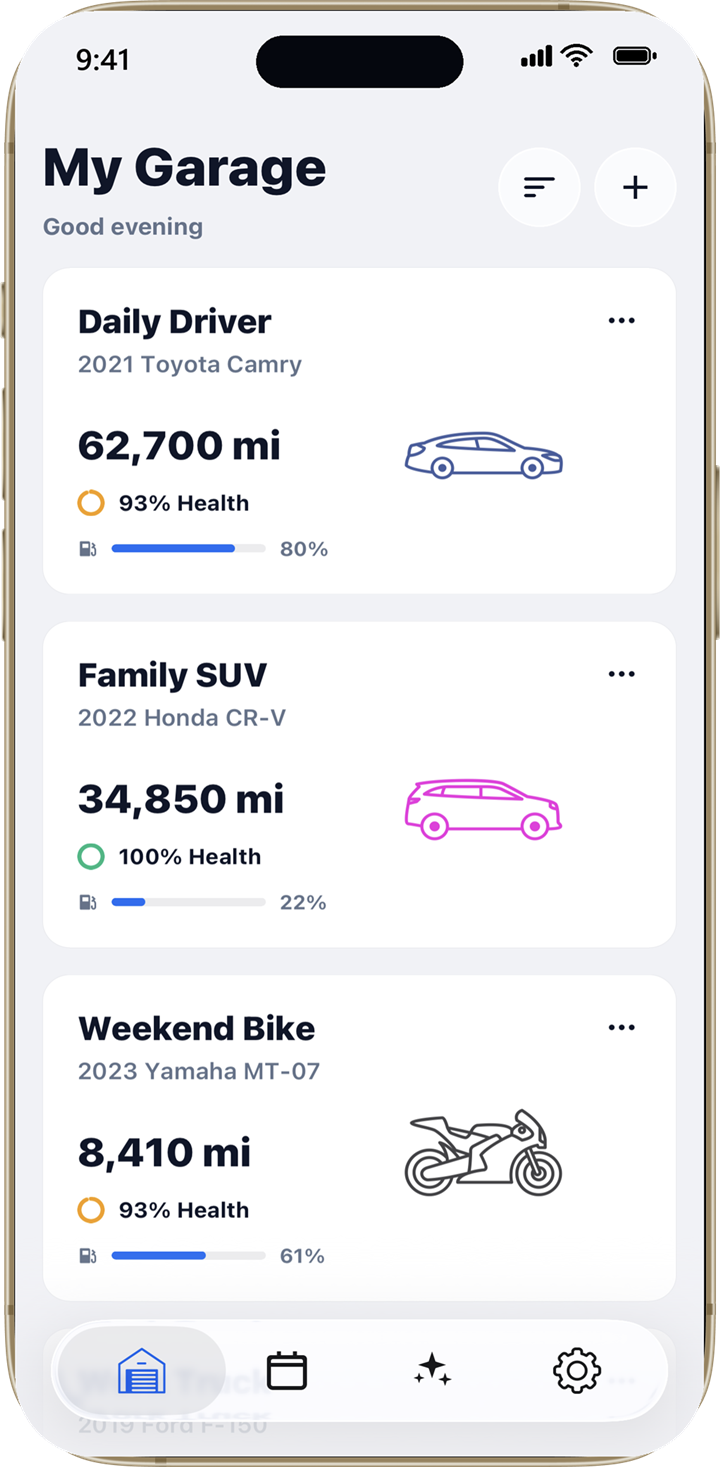
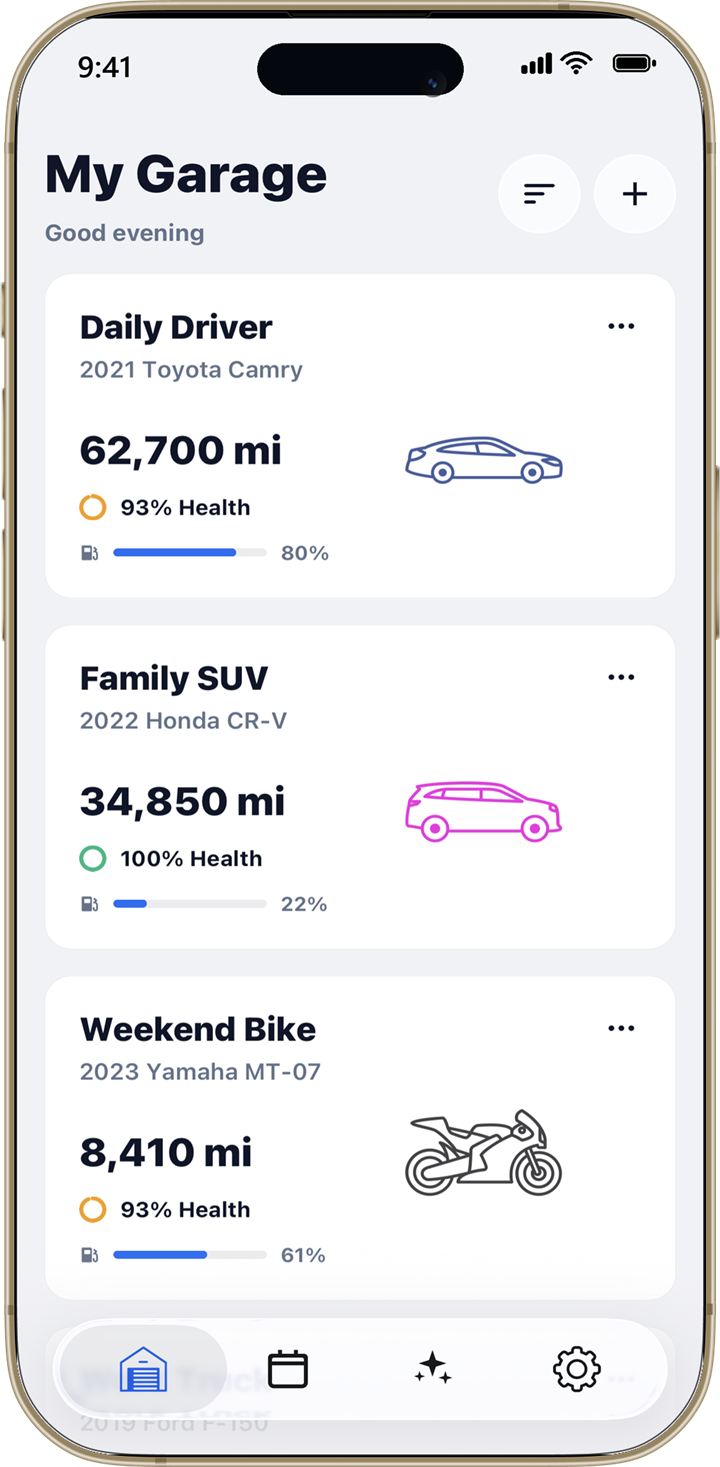
Audit pass: pixel-exact phone mask, real Carson UI, two factual fixes
Hero: the screenshot was clipped to a guessed rounded rect built from the
phone's whole silhouette, so its corners overhung the bezel and the CSS
drop-shadow followed that oversized rectangle - the dark blue box. Now the
frame's own black screen pixels are the mask (antialiased edge included),
so the composite's alpha is the phone silhouette exactly.

Carson section: replaced the hand-written chat card with the real Carson
screen. The mock invented an urgency label (Weeks, not days - the app uses
Can wait / Address this week / Same-day / Stop driving now) and invented
quick-replies; the real chips are Next due task / Log mileage / Log service.

Facts corrected against the codebase: 7 languages was the store-listing
locale count - the app ships English + Espanol (SUPPORTED_LANGUAGES), so the
badge and footer locale bar now say so (Italiano removed: listing locale,
not an app language). 12 body types became 17 (11 car + 6 bike, per
BODY_TYPES + BIKE_BODY_TYPES). Honesty-card copy now states why an estimate
appears (we lack the manufacturer's numbers) rather than implying the maker
never published any.

Verified correct and left alone: 39.99/yr, 3.33/mo equivalent, save 44 pct
(vs 12x 5.99), the 7-day trial, free-tier caps, and both honesty labels -
Manufacturer schedule and General estimate are the app's exact strings.

Strip now shows four unique screens (service history, maintenance, bike
schedule, log service); Carson and the garage already appear elsewhere.

diff --git a/index.html b/index.html
@@ -97,15 +97,9 @@
     .carson .lede { color: rgba(250,250,250,.7); }
     .chips { display: flex; flex-wrap: wrap; gap: 10px; margin-top: 28px; }
     .chip { height: 38px; padding: 0 14px; border-radius: 19px; border: 1px solid rgba(255,255,255,.2); display: inline-flex; align-items: center; font: 600 14px/1 Inter, system-ui; color: #FAFAFA; }
-    .chat { background: #1C1C1E; border: 1px solid #2A2A2E; border-radius: 20px; padding: 26px; }
-    .bubble { margin: 0 0 16px auto; max-width: 70%; background: #146EF5; border-radius: 16px 16px 4px 16px; padding: 10px 14px; width: fit-content; font: 400 15px/23px Inter, system-ui; color: #fff; }
-    .chat-h { font: 800 16px/24px Inter, system-ui; color: #FAFAFA; }
-    .chat-p { font: 400 15px/24px Inter, system-ui; color: #FAFAFA; margin-bottom: 14px; text-wrap: pretty; }
-    .urgency { display: flex; align-items: center; gap: 10px; margin-top: 4px; flex-wrap: wrap; }
-    .u-pill { font: 600 11px/1 Inter, system-ui; letter-spacing: .04em; text-transform: uppercase; color: #FBBF24; background: rgba(251,191,36,.16); padding: 6px 10px; border-radius: 99px; }
-    .u-note { font: 500 14px/20px Inter, system-ui; color: #A3A3A3; }
-    .chat-div { height: 1px; background: #2A2A2E; margin: 20px 0 16px; }
-    .chat-foot { font: 500 13px/18px Inter, system-ui; color: #A3A3A3; }
+    .chat { background: #1C1C1E; border: 1px solid #2A2A2E; border-radius: 20px; padding: 20px; }
+    .chat-img { display: block; width: 100%; height: auto; border-radius: 12px; }
+    .chat-foot { font: 500 13px/18px Inter, system-ui; color: #A3A3A3; margin-top: 16px; }
 
     /* shots */
     .shots { background: #fff; border-bottom: 1px solid #E5E7EB; }
@@ -198,7 +192,7 @@
 <section class="hero">
   <div class="wrap hero-in">
     <div class="hero-copy">
-      <div class="hero-badge"><div class="dot"></div><span>iOS · 7 languages</span></div>
+      <div class="hero-badge"><div class="dot"></div><span>iOS · English &amp; Español</span></div>
       <h1>Know what your car actually needs.</h1>
       <p class="hero-sub">Real manufacturer schedules where they exist — clearly-labeled estimates where they don't. Carrus never dresses a guess up as a fact.</p>
       <div class="hero-ctas">
@@ -227,7 +221,7 @@
           <div class="label-ic" style="background:rgba(16,185,129,.12)"><div style="width:16px;height:8px;border-left:2.5px solid #047857;border-bottom:2.5px solid #047857;transform:rotate(-45deg) translateY(-2px)"></div></div>
           <div style="flex:1">
             <div class="lc-title">Manufacturer schedule</div>
-            <div class="lc-sub">Pulled from the published service table for your exact year and trim.</div>
+            <div class="lc-sub">Straight from the manufacturer's published service table for your vehicle.</div>
           </div>
           <span class="tag-verified">Verified</span>
         </div>
@@ -235,7 +229,7 @@
           <div class="label-ic" style="background:#F1F2F6"><div style="width:18px;height:18px;border-radius:9px;border:2px dashed #64748B"></div></div>
           <div style="flex:1">
             <div class="lc-title">General estimate</div>
-            <div class="lc-sub">Industry-typical interval, shown when your maker doesn't publish one.</div>
+            <div class="lc-sub">Industry-typical interval, shown when we don't have the manufacturer's numbers for your vehicle.</div>
           </div>
           <span class="tag-estimate">Estimate</span>
         </div>
@@ -283,22 +277,15 @@
     <div>
       <div class="kicker">Carson</div>
       <h2>Describe the noise. Get a straight answer.</h2>
-      <p class="lede">Carson triages like a shop foreman: likely causes, what to check yourself, and how urgent it really is — before you're quoted for it.</p>
+      <p class="lede">Describe a symptom and Carson triages it the way a good mechanic would: ranked likely causes, what to check yourself, and how urgent it really is — before you're quoted for it.</p>
       <div class="chips">
-        <span class="chip">Squeal when braking</span>
-        <span class="chip">Check engine light</span>
-        <span class="chip">Is $68 fair?</span>
+        <span class="chip">Next due task</span>
+        <span class="chip">Log mileage</span>
+        <span class="chip">Log service</span>
       </div>
     </div>
     <div class="chat">
-      <div class="bubble">Squeal when braking, only in the morning</div>
-      <div class="chat-h">Most likely causes</div>
-      <div class="chat-p">Surface rust burning off overnight · worn pad wear-indicators · glazed pads.</div>
-      <div class="chat-h">Check first</div>
-      <div class="chat-p">Does it go away after three or four stops? That's rust, and it's normal. If it stays all day, look at pad thickness through the wheel.</div>
-      <div class="chat-h">Urgency</div>
-      <div class="urgency"><span class="u-pill">Weeks, not days</span><span class="u-note">Grinding = stop driving</span></div>
-      <div class="chat-div"></div>
+      <img class="chat-img" src="/assets/feat/carson.png" alt="Carson in the app answering a grinding-noise question with ranked likely causes" loading="lazy" width="700" height="864">
       <div class="chat-foot">Carson knows your mileage and history — answers are specific to the car, not the internet.</div>
     </div>
   </div>
@@ -308,12 +295,12 @@
   <div class="wrap shots-pad">
     <div class="shots-head">
       <h2 style="color:#0F172A">Built for the whole garage</h2>
-      <span>Cars · trucks · bikes · scooters — 12 body types</span>
+      <span>Cars · trucks · bikes · scooters — 17 body types</span>
     </div>
     <div class="shots-grid">
-      <div class="shot"><img src="/assets/shots/shot-01.png" alt="Carrus garage screen with vehicle health rings" loading="lazy" width="700" height="1429"></div>
+      <div class="shot"><img src="/assets/shots/shot-01.png" alt="Service history in Carrus, with each entry's mileage and cost" loading="lazy" width="700" height="1429"></div>
       <div class="shot"><img src="/assets/shots/shot-02.png" alt="Carrus maintenance schedule with sourced intervals" loading="lazy" width="700" height="1429"></div>
-      <div class="shot"><img src="/assets/shots/shot-03.png" alt="Carson AI mechanic chat" loading="lazy" width="700" height="1429"></div>
+      <div class="shot"><img src="/assets/shots/shot-03.png" alt="A motorbike's own schedule in Carrus: chain lube, valve clearance, fork oil" loading="lazy" width="700" height="1429"></div>
       <div class="shot"><img src="/assets/shots/shot-04.png" alt="Fuel and cost tracking" loading="lazy" width="700" height="1429"></div>
     </div>
   </div>
@@ -383,9 +370,7 @@
     </div>
     <div class="locales">
       <span class="loc">English</span>
-      <span class="loc">Español · MX</span>
-      <span class="loc">Español · ES</span>
-      <span class="loc">Italiano</span>
+      <span class="loc">Español</span>
       <span class="loc planned">العربية · planned</span>
     </div>
     <div class="foot-base">
